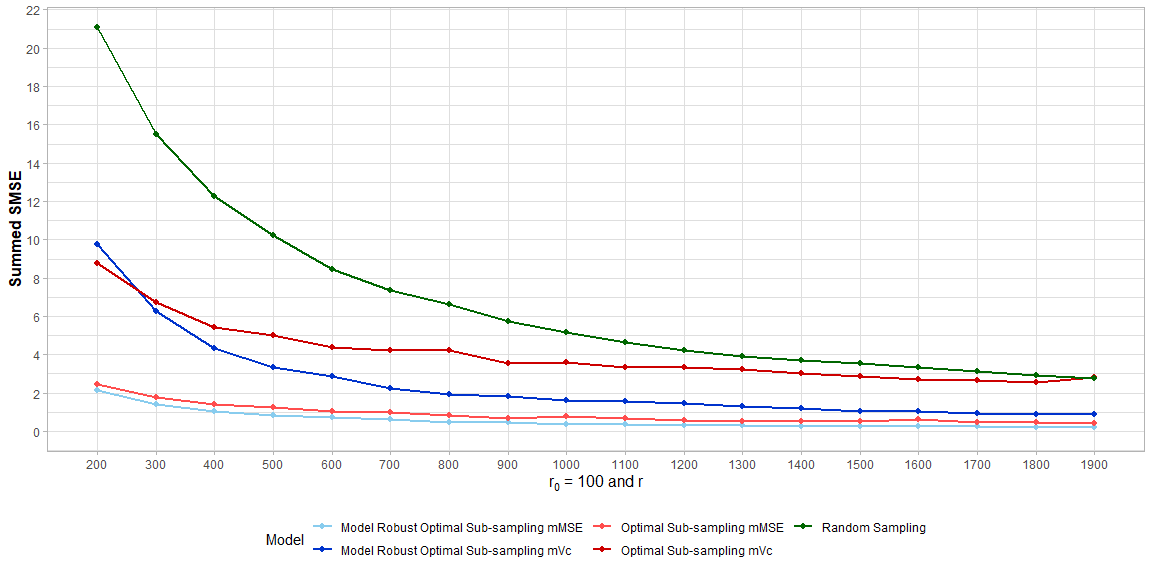
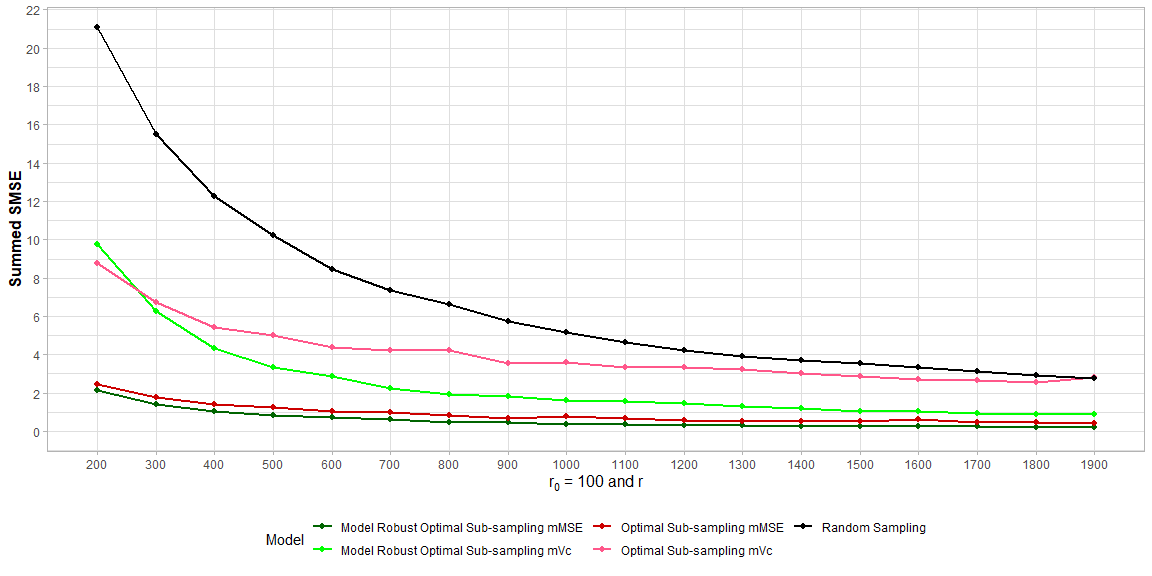
Update plot with colors

diff --git a/Articles.md b/Articles.md
@@ -1,6 +1,6 @@
 Article
 ================
 Amalan
-April 09, 2022
+June 02, 2022
 
 ![](Articles_files/figure-gfm/load%20Non%20Identical%20Data-1.png)<!-- -->![](Articles_files/figure-gfm/load%20Non%20Identical%20Data-2.png)<!-- -->
